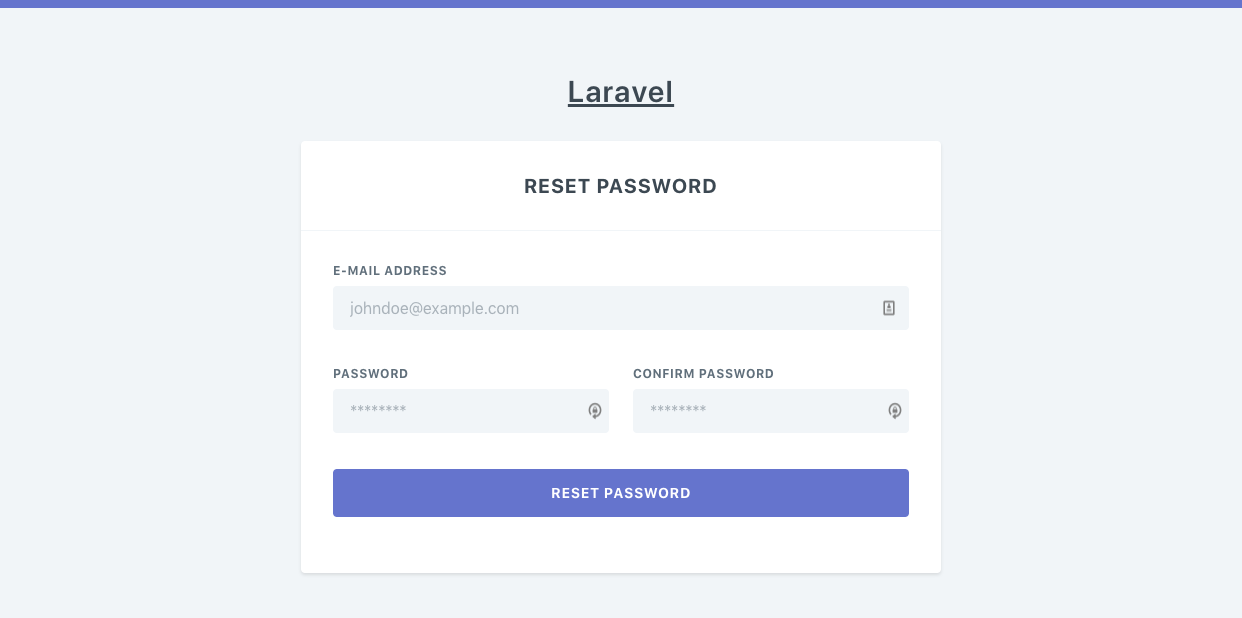
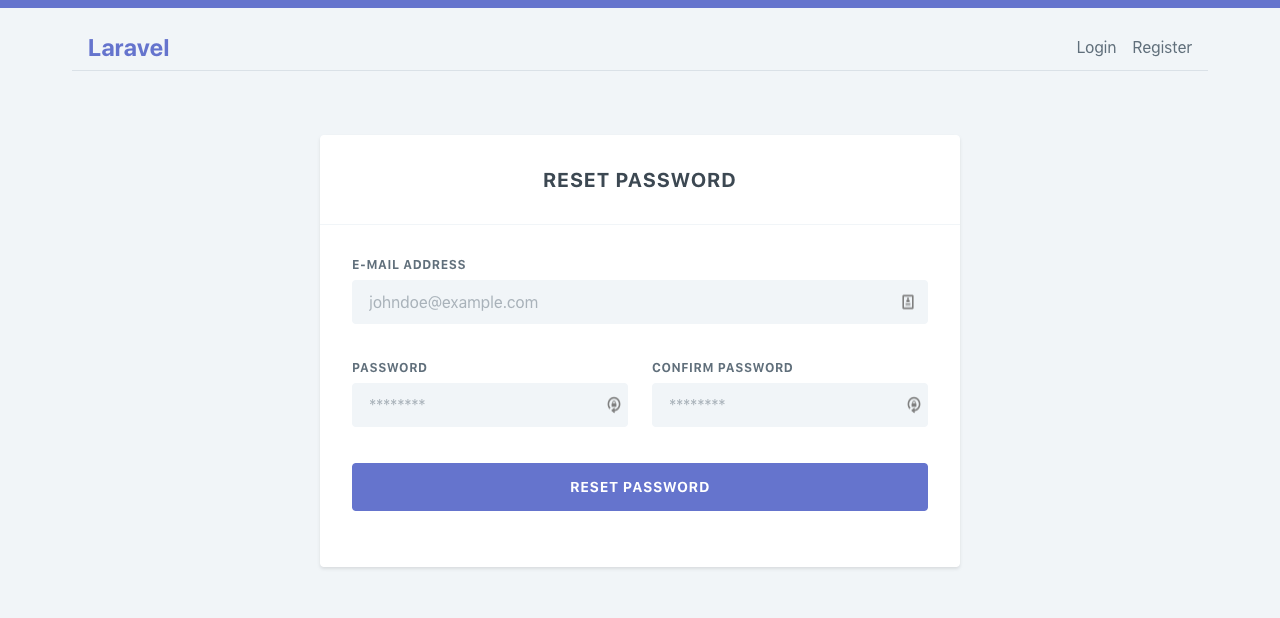
Updated UI

diff --git a/src/tailwind-stubs/resources/views/welcome.blade.php b/src/tailwind-stubs/resources/views/welcome.blade.php
@@ -3,31 +3,7 @@
 @section('content')
 	<div class="h-2 bg-indigo-dark"></div>
 	<div class="container mx-auto px-8 py-4">
-	    <nav class="flex justify-between items-center py-2 px-4 border-b border-grey-light">
-	        <div class="mr-6">
-	            <a href="{{ url('/') }}" class="text-2xl font-bold text-indigo hover:text-indigo-dark no-underline">
-	                Laravel
-	            </a>
-	        </div>
-	        <div>
-	            <ul class="list-reset flex">
-	            	@if (Route::has('login'))
-		            	@auth
-		            		<li>
-			                    <a href="{{ url('/home') }}" class="text-xl no-underline text-grey-darker hover:text-grey-darkest">Home</a>
-			                </li>
-	                    @else
-	                    	<li class="mr-4">
-			                    <a href="{{ route('login') }}" class="text-xl no-underline text-grey-darker hover:text-grey-darkest">Login</a>
-			                </li>
-			                <li>
-			                    <a href="{{ route('register') }}" class="text-xl no-underline text-grey-darker hover:text-grey-darkest">Register</a>
-			                </li>
-	                    @endauth
-                    @endif
-	            </ul>
-	        </div>
-	    </nav>
+	 	@include('auth.partials._nav')
 
 		<div class="min-h-screen flex items-center justify-center -my-24">
 		    <h1 class="text-2xl sm:text-5xl text-indigo font-sans">Laravel Tailwindcss Preset.</h1>

diff --git a/src/tailwind-stubs/resources/views/auth/partials/_nav.blade.php b/src/tailwind-stubs/resources/views/auth/partials/_nav.blade.php
@@ -1,0 +1,26 @@
+<nav class="flex justify-between items-center py-2 px-4 border-b border-grey-light">
+    <div class="mr-6">
+        <a href="{{ url('/') }}" class="text-2xl font-bold text-indigo hover:text-indigo-dark no-underline">
+            Laravel
+        </a>
+    </div>
+
+    <div>
+        <ul class="list-reset flex">
+        	@if (Route::has('login'))
+            	@auth
+            		<li>
+	                    <a href="{{ url('/home') }}" class="text-base no-underline text-grey-darker hover:text-grey-darkest">Home</a>
+	                </li>
+                @else
+                	<li class="mr-4">
+	                    <a href="{{ route('login') }}" class="text-base no-underline text-grey-darker hover:text-grey-darkest">Login</a>
+	                </li>
+	                <li>
+	                    <a href="{{ route('register') }}" class="text-base no-underline text-grey-darker hover:text-grey-darkest">Register</a>
+	                </li>
+                @endauth
+            @endif
+        </ul>
+    </div>
+</nav>

diff --git a/src/tailwind-stubs/resources/views/auth/passwords/email.blade.php b/src/tailwind-stubs/resources/views/auth/passwords/email.blade.php
@@ -2,14 +2,10 @@
 
 @section('content')
     <div class="h-2 bg-indigo"></div>
-    <div class="container p-8 mx-auto">
-        <div class="mx-auto max-w-sm">
-            <div class="py-8 text-center">
-                <div class="inline-block">
-                    <h1 class="text-3xl tracking-wide"><a href="{{ url('/') }}" class="text-grey-darkest font-semibold underline-indigo">{{ config('app.name', 'Laravel') }}</a></h1>
-                </div>
-            </div>
+    <div class="container mx-auto px-8 py-4">
+    	@include('auth.partials._nav')
 
+        <div class="mx-auto max-w-sm mt-16">
             <div class="bg-white rounded shadow">
                 <div class="border-b border-grey-lighter py-8 font-bold text-grey-darkest text-center text-xl tracking-wide uppercase">
                     {{ __('Reset Password') }}

diff --git a/src/tailwind-stubs/resources/views/auth/passwords/reset.blade.php b/src/tailwind-stubs/resources/views/auth/passwords/reset.blade.php
@@ -2,14 +2,10 @@
 
 @section('content')
     <div class="h-2 bg-indigo"></div>
-    <div class="container p-8 mx-auto">
-        <div class="mx-auto max-w-md">
-            <div class="py-8 text-center">
-                <div class="inline-block">
-                    <h1 class="text-3xl tracking-wide"><a href="{{ url('/') }}" class="text-grey-darkest font-semibold underline-indigo">{{ config('app.name', 'Laravel') }}</a></h1>
-                </div>
-            </div>
+    <div class="container mx-auto px-8 py-4">
+    	@include('auth.partials._nav')
 
+        <div class="mx-auto max-w-md mt-16">
             <div class="bg-white rounded shadow">
                 <div class="border-b border-grey-lighter py-8 font-bold text-grey-darkest text-center text-xl tracking-wide uppercase">
                     {{ __('Reset Password') }}

diff --git a/src/tailwind-stubs/resources/views/auth/verify.blade.php b/src/tailwind-stubs/resources/views/auth/verify.blade.php
@@ -2,14 +2,10 @@
 
 @section('content')
     <div class="h-2 bg-indigo"></div>
-    <div class="container p-8 mx-auto">
-        <div class="mx-auto max-w-sm">
-            <div class="py-8 text-center">
-                <div class="inline-block">
-                    <h1 class="text-3xl tracking-wide"><a href="{{ url('/') }}" class="text-grey-darkest font-semibold underline-indigo">{{ config('app.name', 'Laravel') }}</a></h1>
-                </div>
-            </div>
+    <div class="container mx-auto px-8 py-4">
+    	@include('auth.partials._nav')
 
+        <div class="mx-auto max-w-sm mt-16">
             <div class="bg-white rounded shadow">
                 <div class="border-b border-grey-lighter py-8 font-bold text-grey-darkest text-center text-xl tracking-wide uppercase">
                     Verify Your Email Address

diff --git a/src/tailwind-stubs/resources/views/auth/register.blade.php b/src/tailwind-stubs/resources/views/auth/register.blade.php
@@ -2,14 +2,10 @@
 
 @section('content')
     <div class="h-2 bg-indigo"></div>
-    <div class="container p-8 mx-auto">
-        <div class="mx-auto max-w-md">
-            <div class="py-8 text-center">
-                <div class="inline-block">
-                    <h1 class="text-3xl tracking-wide"><a href="{{ url('/') }}" class="text-grey-darkest font-semibold underline-indigo">{{ config('app.name', 'Laravel') }}</a></h1>
-                </div>
-            </div>
+    <div class="container mx-auto px-8 py-4">
+    	@include('auth.partials._nav')
 
+        <div class="mx-auto max-w-md mt-16">
             <div class="bg-white rounded shadow">
                 <div class="border-b border-grey-lighter py-8 font-bold text-grey-darkest text-center text-xl tracking-wide uppercase">
                     {{ __('Register') }}

diff --git a/src/tailwind-stubs/resources/views/auth/login.blade.php b/src/tailwind-stubs/resources/views/auth/login.blade.php
@@ -2,14 +2,10 @@
 
 @section('content')
     <div class="h-2 bg-indigo-dark"></div>
-    <div class="container p-8 mx-auto">
-        <div class="mx-auto max-w-sm">
-            <div class="py-8 text-center">
-                <div class="inline-block">
-                    <h1 class="text-3xl tracking-wide"><a href="{{ url('/') }}" class="text-grey-darkest font-semibold underline-indigo">{{ config('app.name', 'Laravel') }}</a></h1>
-                </div>
-            </div>
+    <div class="container mx-auto px-8 py-4">
+		@include('auth.partials._nav')
 
+        <div class="mx-auto max-w-sm mt-16">
             <div class="bg-white rounded shadow">
                 <div class="border-b border-grey-lighter py-8 font-bold text-grey-darkest text-center text-xl tracking-wide uppercase">
                     {{ __('Login') }}

diff --git a/src/tailwind-stubs/resources/views/home.blade.php b/src/tailwind-stubs/resources/views/home.blade.php
@@ -13,7 +13,7 @@
 	        <div>
 	            <ul class="list-reset">
 	                <li>
-	                    <a href="{{ route('logout') }}" class="text-xl no-underline text-grey-darker hover:text-grey-darkest" onclick="event.preventDefault();document.getElementById('logout-form').submit();">{{ __('Logout') }}</a>
+	                    <a href="{{ route('logout') }}" class="text-base no-underline text-grey-darker hover:text-grey-darkest" onclick="event.preventDefault();document.getElementById('logout-form').submit();">{{ __('Logout') }}</a>
 
                         <form id="logout-form" action="{{ route('logout') }}" method="POST" style="display: none;">
                             @csrf
